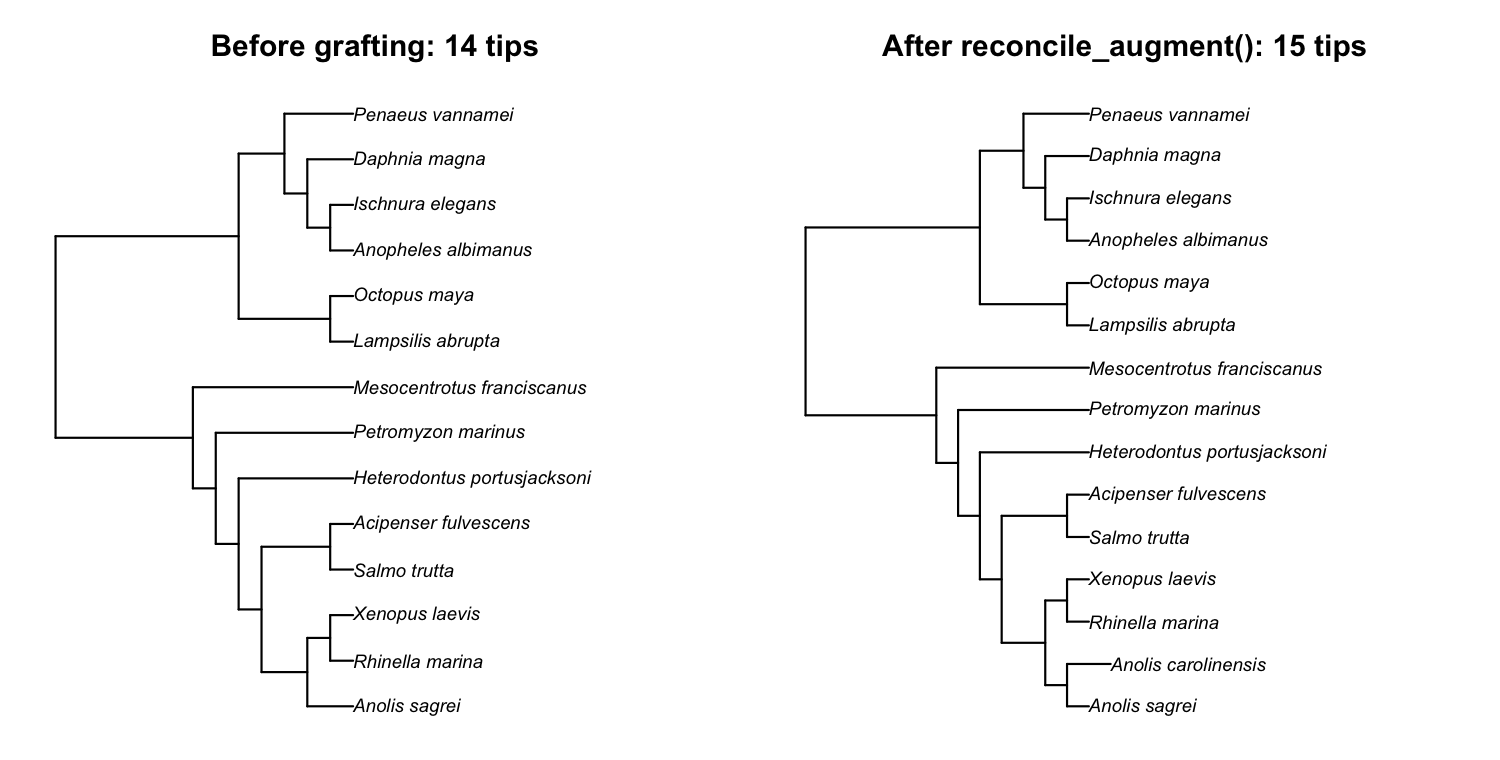
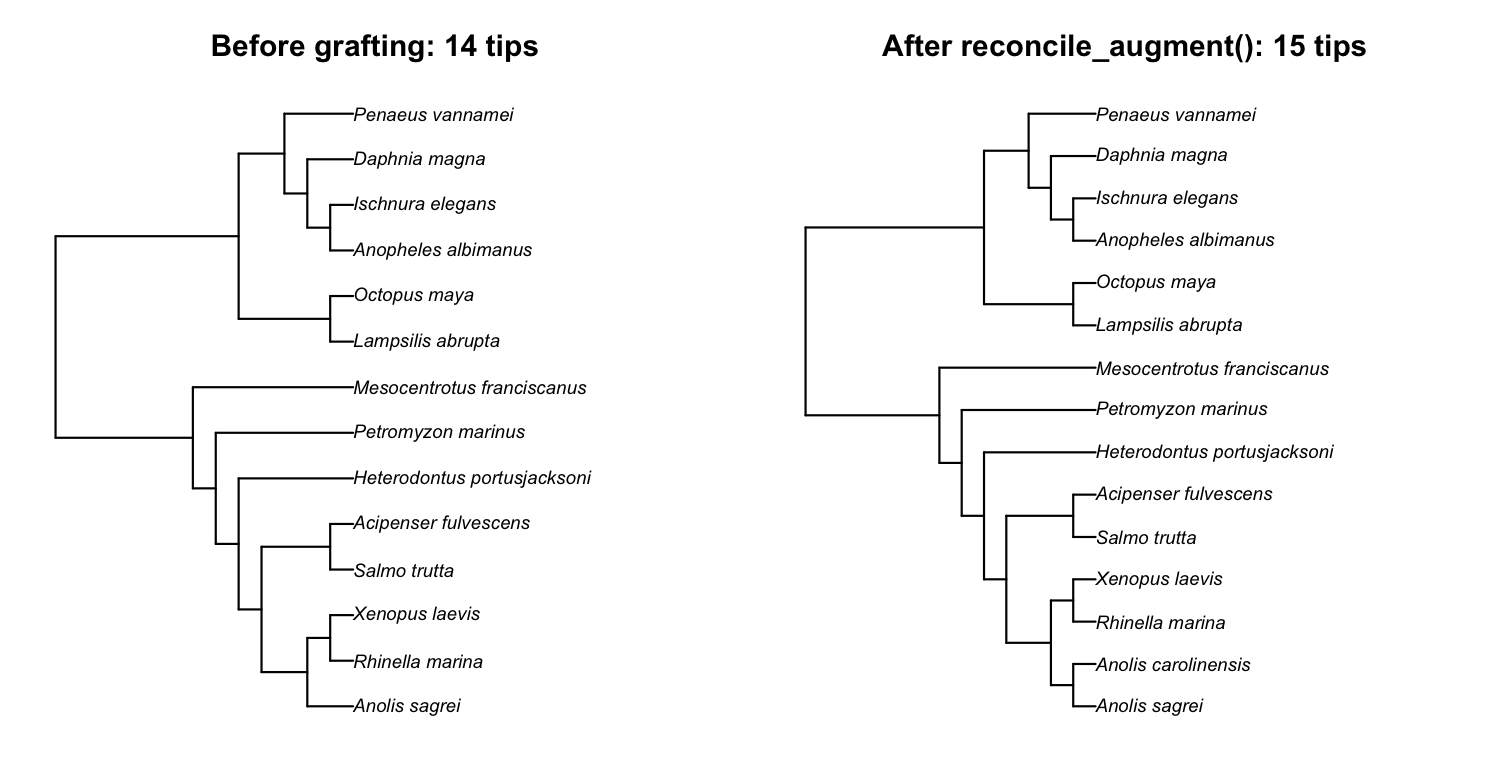
fix(reconcile_augment): keep an ultrametric tree ultrametric when grafting
reconcile_augment() set each grafted tip's terminal edge from
`branch_length` independently of where the tip attached, so on an
ultrametric input the new tip did not land at the present and the
tree stopped being ultrametric -- which PGLS / phylogenetic
meta-analysis require. `?reconcile_augment` claimed congener_median /
half_terminal preserved ultrametricity; they did not. Reported by
@mlagisz on issue #89.

After the graft loop, when the input tree was ultrametric and
branch_length != "zero", adjust each grafted tip's terminal edge so
it reaches the common root-to-tip depth. Adjusting one terminal edge
moves only that tip, so a single depth snapshot handles several or
chained grafts; the corrected edge is always positive.
branch_length = "zero" is exempt -- it asks for a polytomy by design.

- New test: grafting onto an ultrametric tree yields an ultrametric
  tree across where x branch_length (fails before the fix on two
  combinations). devtools::test() FAIL 0, PASS 2690.
- meta-analysis-with-rotl.Rmd: the grafting section now shows
  is.ultrametric(aug$tree) is TRUE, the before/after figure is
  re-rendered with tips aligned, and a new paragraph explains why the
  augmented tree is ready for pr_phylo_cor().

diff --git a/docs/articles/meta-analysis-with-rotl.html b/docs/articles/meta-analysis-with-rotl.html
@@ -426,7 +426,12 @@ Steps 1-3 — and shows the species counts before and after grafting:</p>
 <span><span class="va">aug</span><span class="op">$</span><span class="va">meta</span><span class="op">$</span><span class="va">augmented_n_tips</span>    <span class="co"># 15  (tree tips after grafting)</span></span>
 <span><span class="va">aug</span><span class="op">$</span><span class="va">augmented</span><span class="op">[</span>, <span class="fu"><a href="https://rdrr.io/r/base/c.html" class="external-link">c</a></span><span class="op">(</span><span class="st">"species"</span>, <span class="st">"placed_near"</span>, <span class="st">"n_congeners"</span><span class="op">)</span><span class="op">]</span></span>
 <span><span class="co">#&gt;               species   placed_near n_congeners</span></span>
-<span><span class="co">#&gt; 1 Anolis carolinensis Anolis sagrei           1</span></span></code></pre></div>
+<span><span class="co">#&gt; 1 Anolis carolinensis Anolis sagrei           1</span></span>
+<span></span>
+<span><span class="co"># The augmented tree is ready for a comparative model: still fully</span></span>
+<span><span class="co"># resolved, and still ultrametric.</span></span>
+<span><span class="fu">ape</span><span class="fu">::</span><span class="fu"><a href="https://rdrr.io/pkg/ape/man/is.binary.tree.html" class="external-link">is.binary</a></span><span class="op">(</span><span class="va">aug</span><span class="op">$</span><span class="va">tree</span><span class="op">)</span>       <span class="co"># TRUE</span></span>
+<span><span class="fu">ape</span><span class="fu">::</span><span class="fu"><a href="https://rdrr.io/pkg/ape/man/is.ultrametric.html" class="external-link">is.ultrametric</a></span><span class="op">(</span><span class="va">aug</span><span class="op">$</span><span class="va">tree</span><span class="op">)</span>  <span class="co"># TRUE</span></span></code></pre></div>
 <p>The trait data has 15 species; the retrieved tree had only 14 tips;
 after <code><a href="../reference/reconcile_augment.html">reconcile_augment()</a></code> the tree carries all 15. Plotting
 the tree before and after makes the single added tip visible:</p>
@@ -440,12 +445,13 @@ the tree before and after makes the single added tip visible:</p>
 <span><span class="fu"><a href="https://rdrr.io/r/graphics/plot.default.html" class="external-link">plot</a></span><span class="op">(</span><span class="va">aug</span><span class="op">$</span><span class="va">tree</span>,     main <span class="op">=</span> <span class="st">"After reconcile_augment(): 15 tips"</span><span class="op">)</span></span>
 <span><span class="fu"><a href="https://rdrr.io/r/graphics/par.html" class="external-link">par</a></span><span class="op">(</span><span class="va">op</span><span class="op">)</span></span></code></pre></div>
 <div class="float">
-<img src="../reference/figures/meta-analysis-graft-compare.png" style="width:100.0%" alt="Left: the 14-tip Open Tree of Life topology before grafting. Right: the same tree after reconcile_augment() grafts Anolis carolinensis (15 tips). The new species is added as a bifurcating sister to its congener Anolis sagrei, so the tree stays strictly bifurcating and needs no follow-up multi2di()."><div class="figcaption">Left: the 14-tip Open Tree of Life topology
+<img src="../reference/figures/meta-analysis-graft-compare.png" style="width:100.0%" alt="Left: the 14-tip Open Tree of Life topology before grafting. Right: the same tree after reconcile_augment() grafts Anolis carolinensis (15 tips). The new species joins as a bifurcating sister to its congener Anolis sagrei, and its terminal branch is adjusted so every tip stays aligned at the present: the augmented tree is bifurcating and ultrametric, ready for pr_phylo_cor()."><div class="figcaption">Left: the 14-tip Open Tree of Life topology
 before grafting. Right: the same tree after
 <code><a href="../reference/reconcile_augment.html">reconcile_augment()</a></code> grafts <em>Anolis carolinensis</em> (15
-tips). The new species is added as a bifurcating sister to its congener
-<em>Anolis sagrei</em>, so the tree stays strictly bifurcating and needs
-no follow-up <code>multi2di()</code>.</div>
+tips). The new species joins as a bifurcating sister to its congener
+<em>Anolis sagrei</em>, and its terminal branch is adjusted so every tip
+stays aligned at the present: the augmented tree is bifurcating and
+ultrametric, ready for <code><a href="../reference/pr_phylo_cor.html">pr_phylo_cor()</a></code>.</div>
 </div>
 <p><strong>Why the augmented tree has no polytomy.</strong> Manual
 <code>bind.tip(where = 95)</code> attaches the new tip <em>at</em> node
@@ -461,6 +467,17 @@ follow-up <code>multi2di()</code> is needed. Passing
 <code>branch_length = "zero"</code> or <code>where = "near"</code>
 attaches the tip at an existing node instead, and so produces a polytomy
 by design; see <code><a href="../reference/reconcile_augment.html">?reconcile_augment</a></code>.</p>
+<p><strong>The augmented tree also stays ultrametric.</strong>
+Phylogenetic comparative methods — <code><a href="../reference/pr_phylo_cor.html">pr_phylo_cor()</a></code>, PGLS,
+phylogenetic meta-analysis — need an ultrametric tree: every species
+sits the same distance from the root, because all are extant and have
+had the same time to evolve. A grafted tip would not land exactly at the
+present on its own, so <code><a href="../reference/reconcile_augment.html">reconcile_augment()</a></code> adjusts each
+grafted tip’s terminal branch afterwards to restore ultrametricity
+(<code>ape::is.ultrametric(aug$tree)</code> returns <code>TRUE</code>).
+The augmented tree therefore feeds straight into
+<code><a href="../reference/pr_phylo_cor.html">pr_phylo_cor()</a></code> and a phylogenetic meta-analysis, exactly as
+in Steps 4-5.</p>
 <p>The same one-species-manually-added pattern shows up in Cinar et
 al. (2022, <em>Methods Ecol. Evol.</em> 13:383), where <em>Villosa
 delumbis</em> was added based on ITIS — they describe it as “Polytomies
